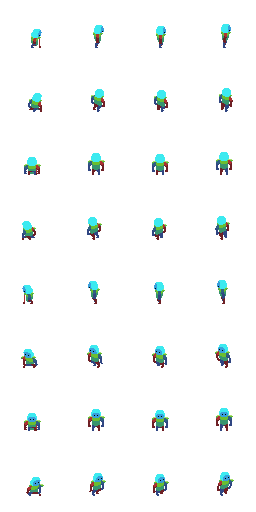
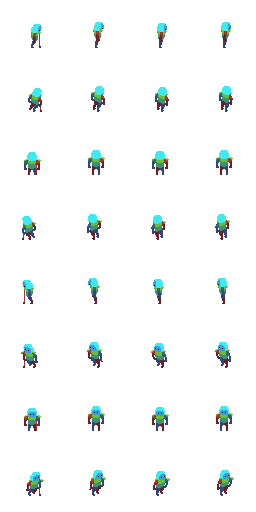
Stances keep players the same height as after the snap
The pre-snap stance frames dropped the body by up to 8px, so players looked
smaller before the snap. Shallower drops (3-point 3px, others 1-2px) keep
stance frames at 24-26px tall, matching the 23-27px run/idle frames, while
keeping the forward lean and the 3-point hand on the ground.

Claude-Session: https://claude.ai/code/session_016Qjy7AtN1VdvGoXXT35b3m

diff --git a/tools/build_sprites.py b/tools/build_sprites.py
@@ -109,10 +109,11 @@ def stance_frame(idle, row, kind, arm=(0xAC3232, 0x6E2025)):
     fwd = FORWARD_X[DIRS[row]]
     # how much to drop the upper body (legs bend) and lean it forward
     drop, lean, hand_down = {
-        '3pt': (8, 4, True),
-        '2pt': (4, 2, False),
-        'crouch': (5, 0, False),
-        'qb': (3, 1, False),
+        # shallow drops so stance players read the same size as after the snap
+        '3pt': (3, 4, True),
+        '2pt': (1, 2, False),
+        'crouch': (2, 1, False),
+        'qb': (1, 1, False),
     }[kind]
     top = opaque[0]
     for y in range(F):
